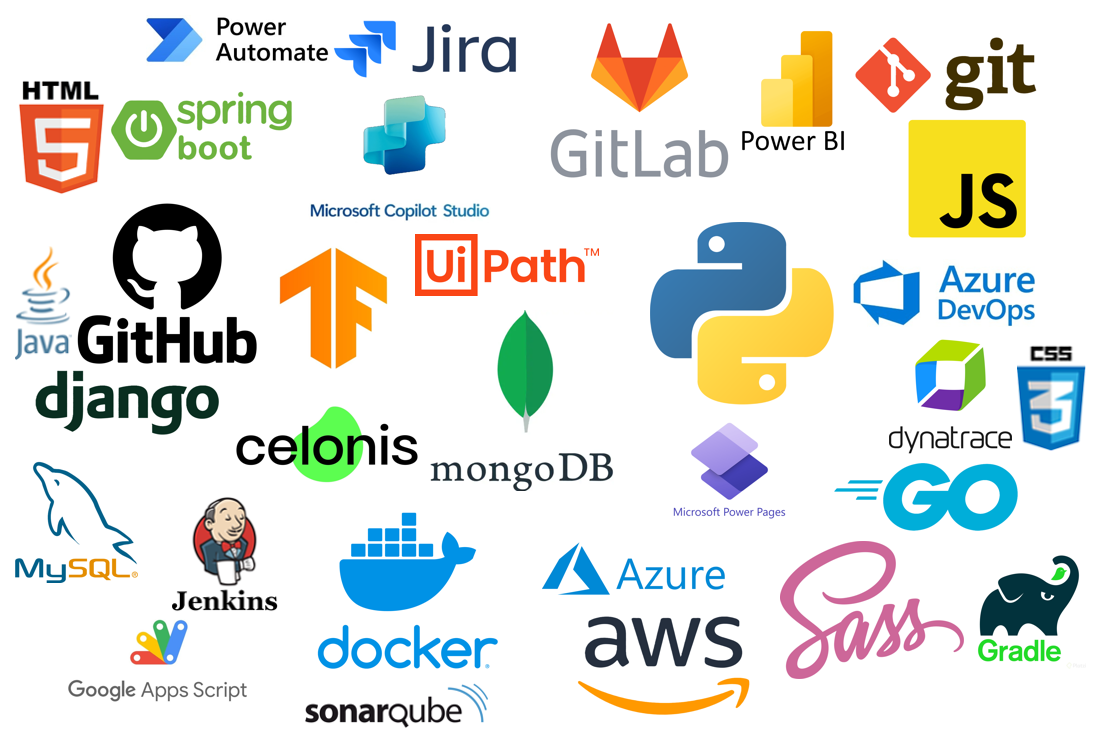
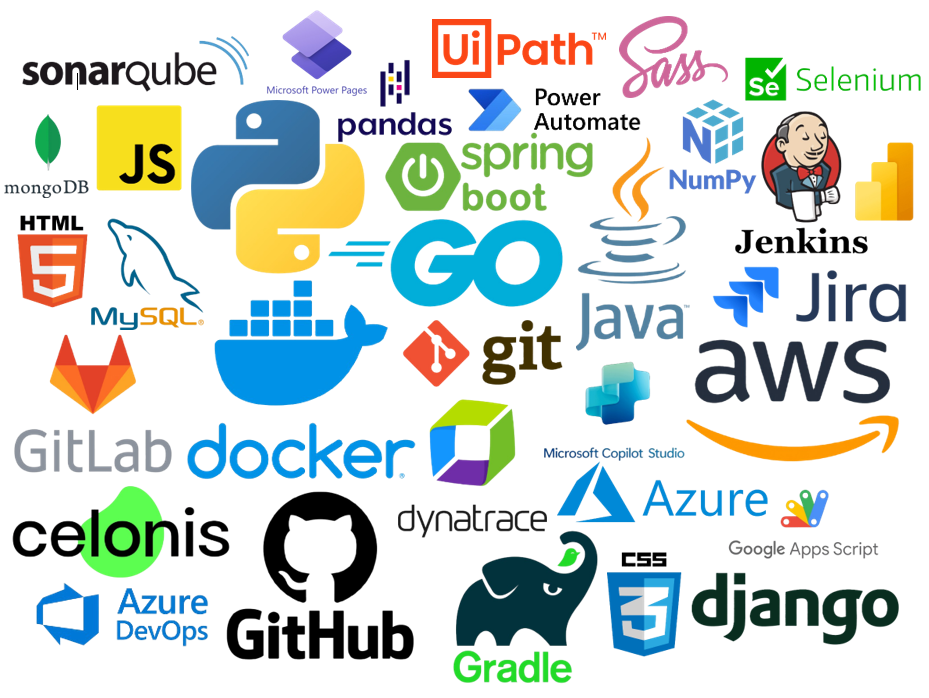
Added new images and replaced tech used imgs in website

diff --git a/scripts/create_tech_used_img.py b/scripts/create_tech_used_img.py
@@ -27,7 +27,6 @@ def place_image(new_image, img, width, height, existing_rects, max_attempts, max
     img_w, img_h = img.size
     for resize_attempt in range(max_resizes):
         for attempt in range(max_attempts):
-            # Generate random coordinates
             x = random.randint(15, width - img_w - 15)
             y = random.randint(15, height - img_h - 15)
             if not overlaps(x, y, img_w, img_h, existing_rects):
